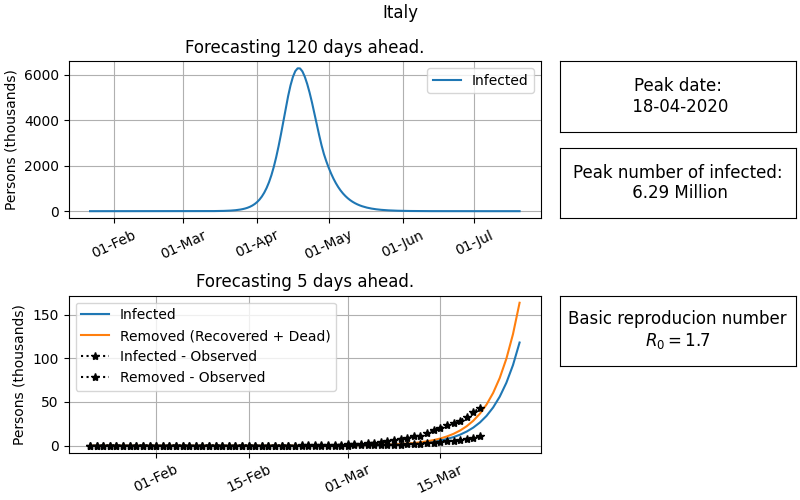
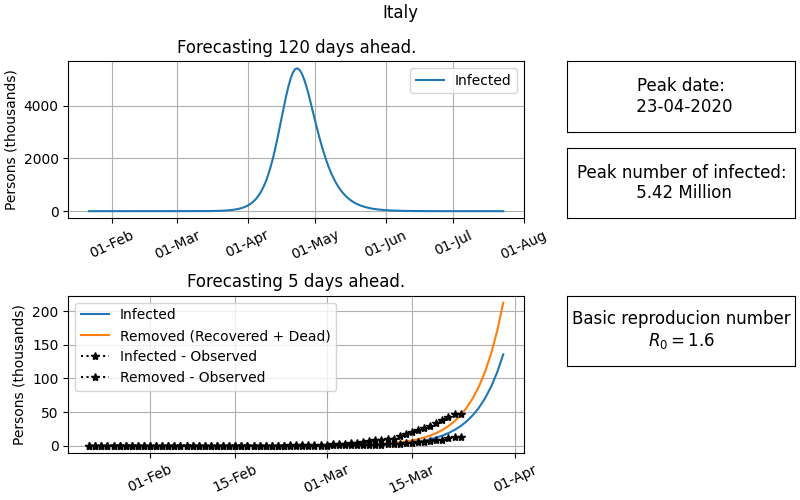
New forecast.

diff --git a/README.md b/README.md
@@ -4,7 +4,7 @@
 Attempt to forecast the number of cases of COVID-19 around the world using the simple [SIR model][sir_model_wiki].
 
 ## Forecasts
-*Updated: 22-03-2020*
+*Updated: 25-03-2020*
 
 Forecasts are based on the simple [SIR model][sir_model_wiki] which assumes
 an individual can be in one of three states,
@@ -21,23 +21,23 @@ Data is downloaded from *Johns Hopkins University Center for Systems Science and
 ### Plots
 |![Denmark](forecast_plots/denmark_SIR.png)|
 |:----------------------------------------:|
-| *Latest data point: 21-03-2020*|
+| *Latest data point: 23-03-2020*|
 
 |![Iran](forecast_plots/iran_SIR.png)|
 |:----------------------------------------:|
-| *Latest data point: 21-03-2020*|
+| *Latest data point: 23-03-2020*|
 
 |![Italy](forecast_plots/italy_SIR.png)|
 |:----------------------------------------:|
-| *Latest data point: 21-03-2020*|
+| *Latest data point: 23-03-2020*|
 
 |![Spain](forecast_plots/spain_SIR.png)|
 |:----------------------------------------:|
-| *Latest data point: 21-03-2020*|
+| *Latest data point: 23-03-2020*|
 
 |![Sweden](forecast_plots/sweden_SIR.png)|
 |:----------------------------------------:|
-| *Latest data point: 21-03-2020*|
+| *Latest data point: 23-03-2020*|
 
 [sir_model_wiki]: https://en.wikipedia.org/wiki/Compartmental_models_in_epidemiology#The_SIR_model
 [csse-data-repo]: https://github.com/CSSEGISandData/COVID-19
